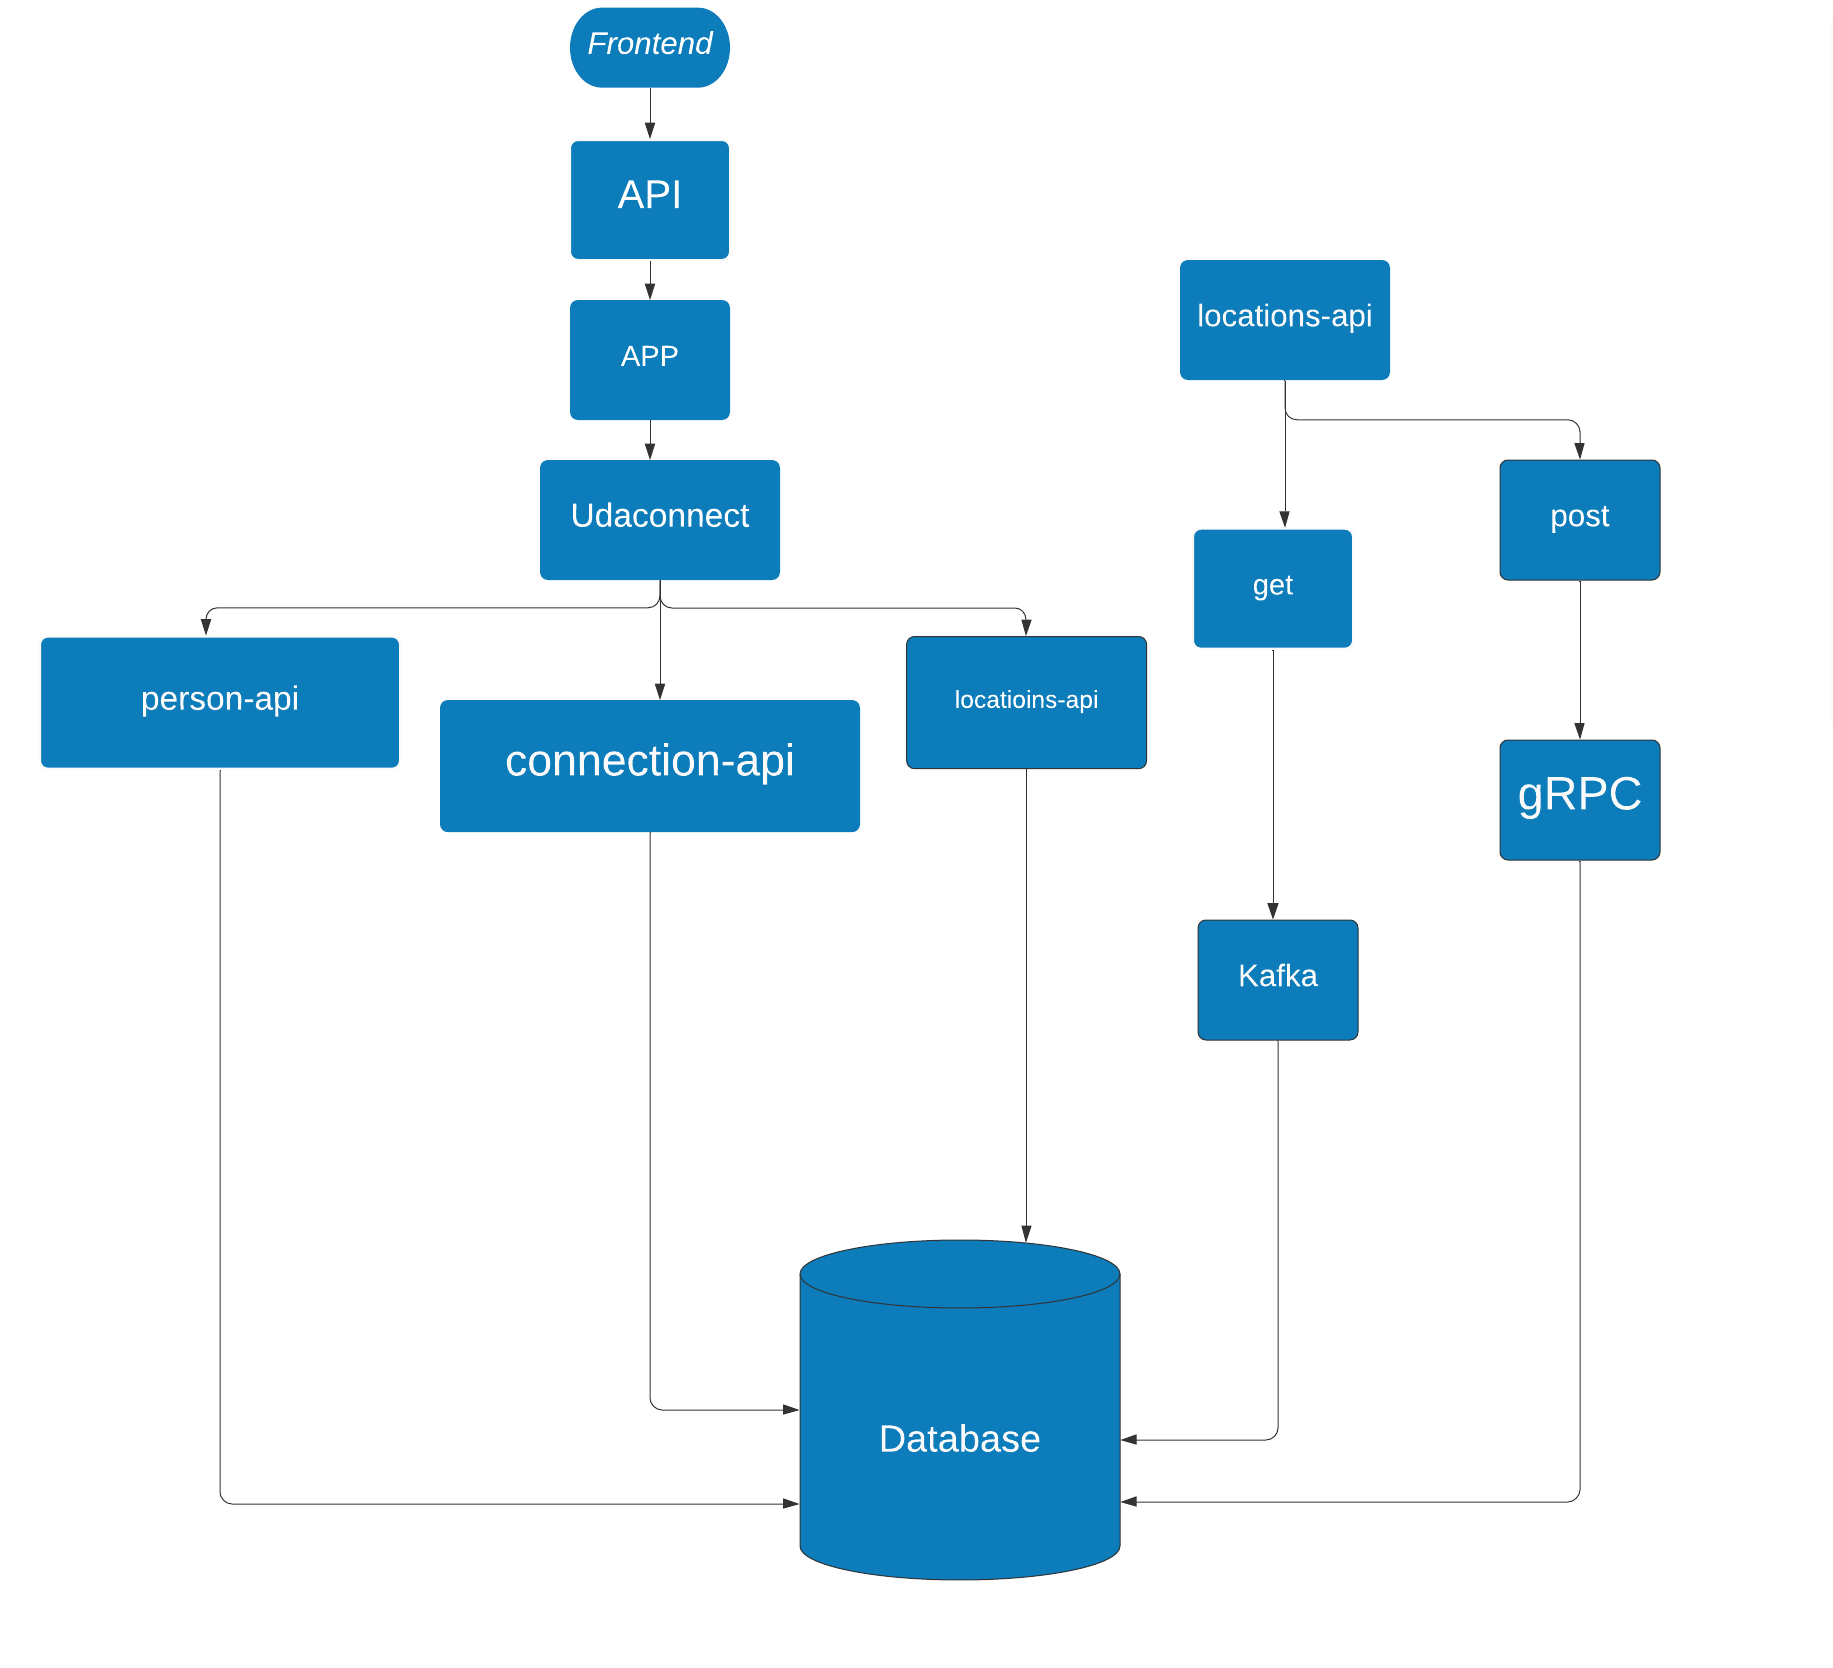
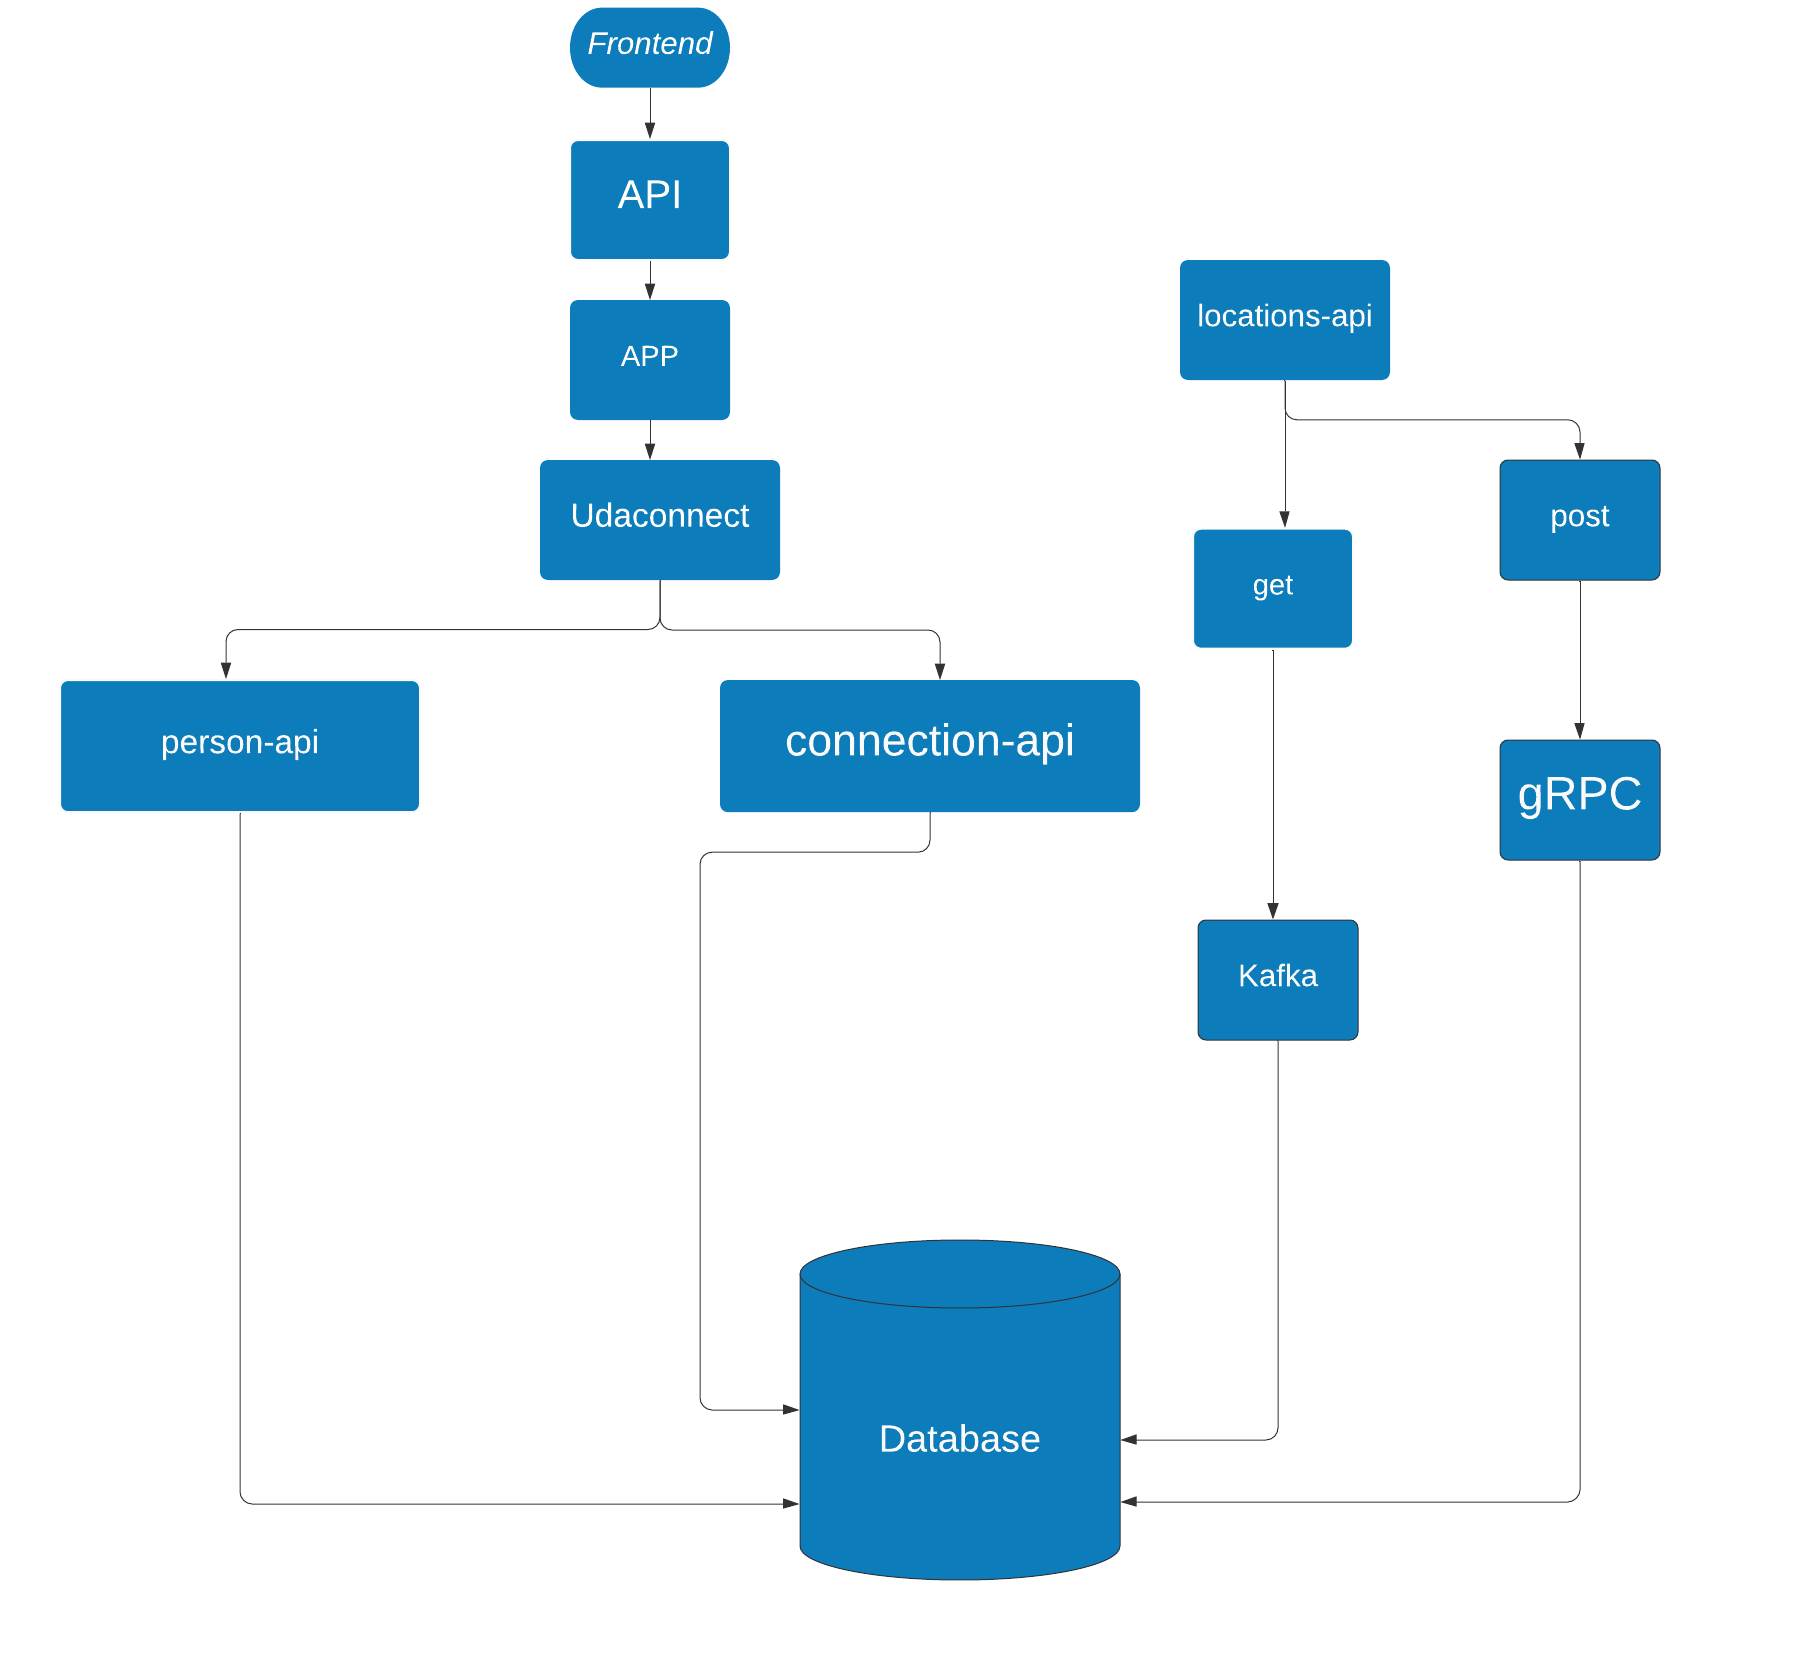
refator location

diff --git a/modules/api/app/udaconnect/controllers.py b/modules/api/app/udaconnect/controllers.py
@@ -17,25 +17,6 @@ DATE_FORMAT = "%Y-%m-%d"
 api = Namespace("UdaConnect", description="Connections via geolocation.")  # noqa
 
 
-# TODO: This needs better exception handling
-
-
-@api.route("/locations")
-@api.route("/locations/<location_id>")
-@api.param("location_id", "Unique ID for a given Location", _in="query")
-class LocationResource(Resource):
-    @accepts(schema=LocationSchema)
-    @responds(schema=LocationSchema)
-    def post(self) -> Location:
-        request.get_json()
-        location: Location = LocationService.create(request.get_json())
-        return location
-
-    @responds(schema=LocationSchema)
-    def get(self, location_id) -> Location:
-        location: Location = LocationService.retrieve(location_id)
-        return location
-
 
 @api.route("/persons")
 class PersonsResource(Resource):
